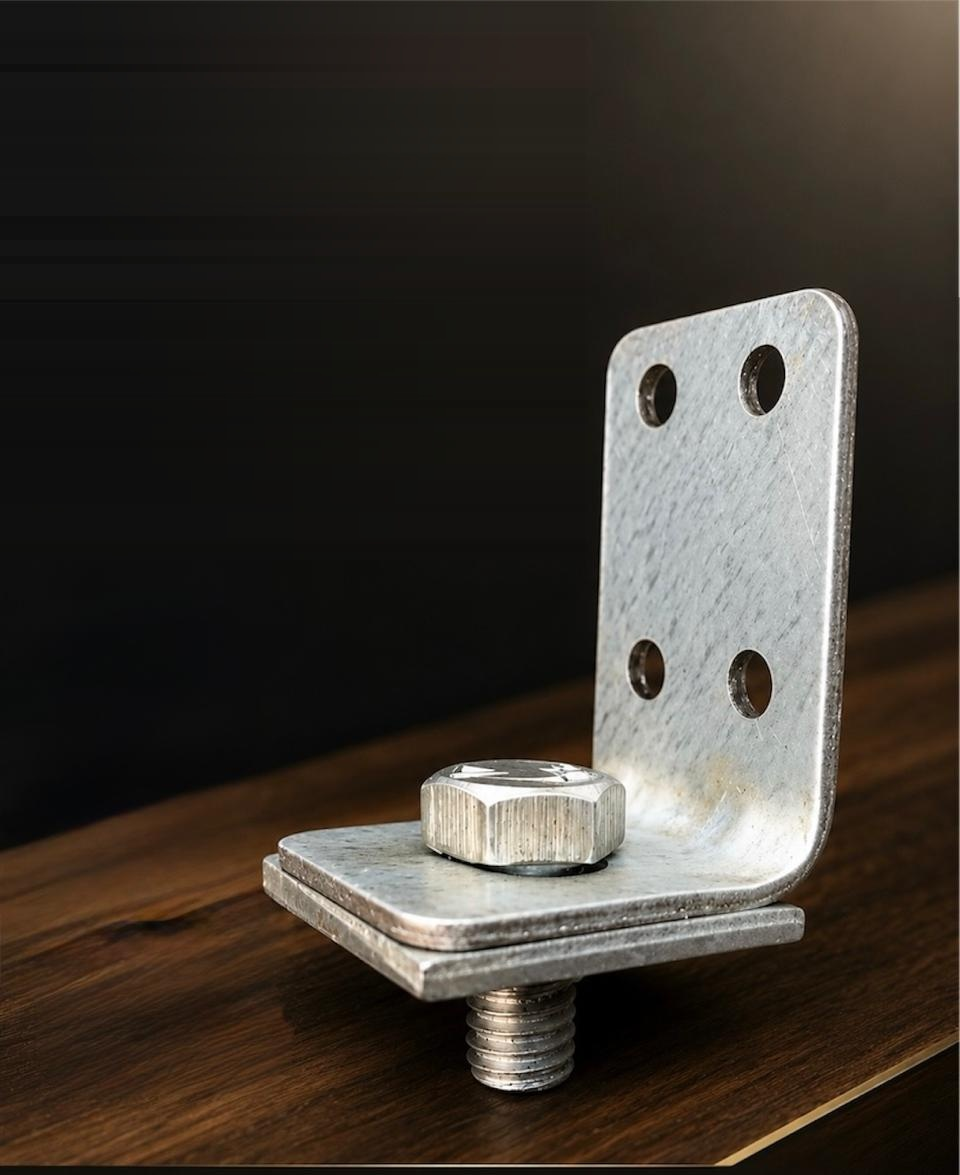
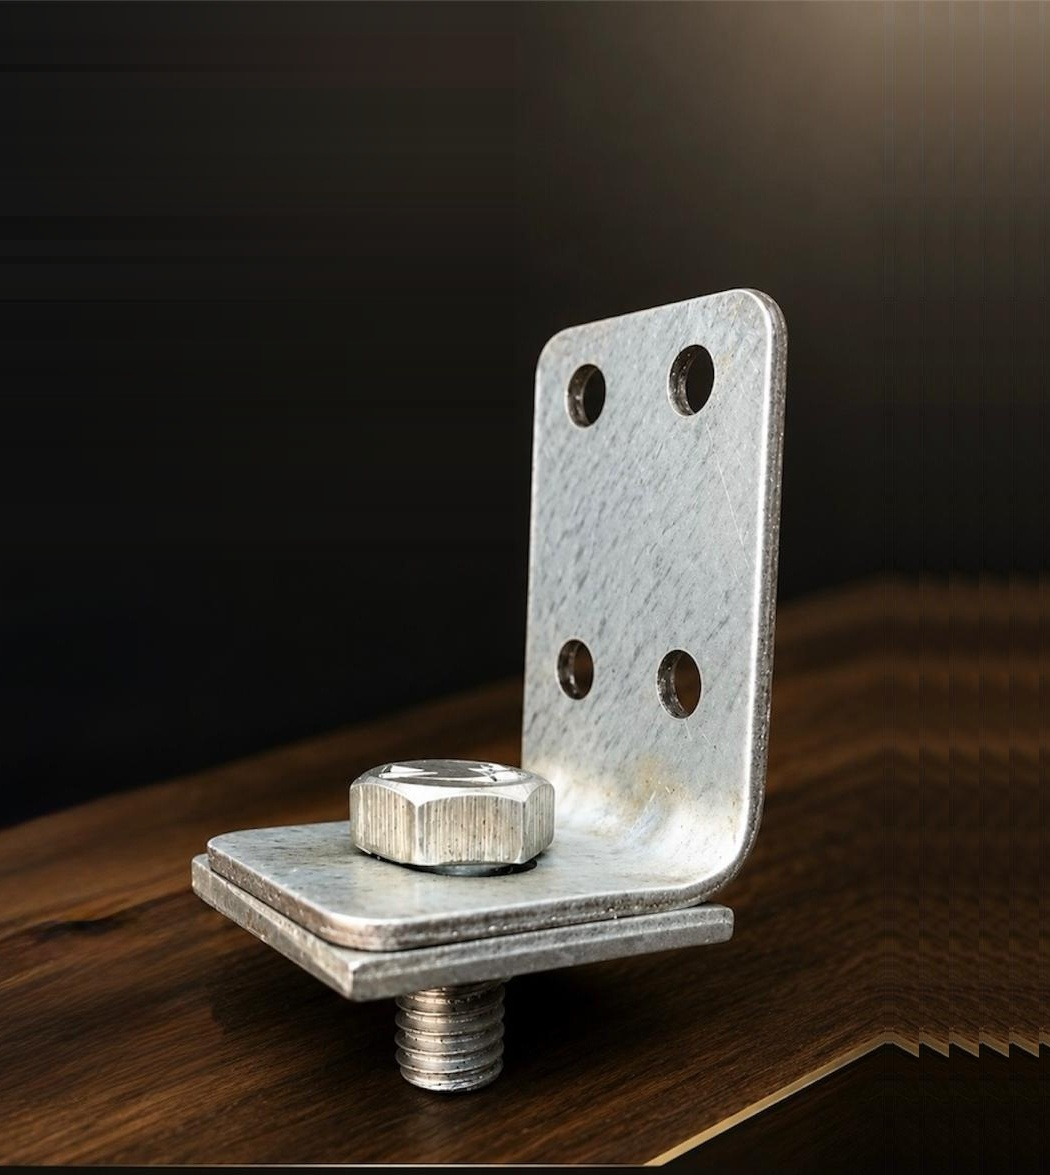
fix: center clamp image and remove obstructing badge overlays on product detail visual

diff --git a/src/index.css b/src/index.css
@@ -1517,23 +1517,25 @@ em {
 .detail-product-visual {
     position: relative;
     width: 100%;
-    aspect-ratio: 4 / 3;
-    max-height: 520px;
+    max-width: 580px;
+    aspect-ratio: 1 / 1;
+    max-height: 540px;
+    margin: 0 auto;
     background: radial-gradient(circle at 50% 45%, #181b22, #0d0f14 85%);
-    border: 1px solid rgba(232, 213, 154, 0.16);
+    border: 1px solid rgba(232, 213, 154, 0.18);
     border-radius: 12px;
     overflow: hidden;
     display: flex;
     align-items: center;
     justify-content: center;
-    box-shadow: 0 20px 50px rgba(0, 0, 0, 0.45);
+    box-shadow: 0 20px 50px rgba(0, 0, 0, 0.55);
     cursor: zoom-in;
     transition: border-color 0.3s ease, box-shadow 0.3s ease;
 }
 
 .detail-product-visual:hover {
-    border-color: rgba(201, 164, 76, 0.4);
-    box-shadow: 0 24px 60px rgba(0, 0, 0, 0.6), 0 0 30px rgba(201, 164, 76, 0.12);
+    border-color: rgba(201, 164, 76, 0.45);
+    box-shadow: 0 24px 60px rgba(0, 0, 0, 0.7), 0 0 30px rgba(201, 164, 76, 0.15);
 }
 
 .detail-ambient {
@@ -1541,8 +1543,8 @@ em {
     inset: -20px;
     background-size: cover;
     background-position: center;
-    filter: blur(36px) brightness(0.22) saturate(1.2);
-    opacity: 0.55;
+    filter: blur(40px) brightness(0.25) saturate(1.2);
+    opacity: 0.6;
     pointer-events: none;
     z-index: 1;
 }
@@ -1556,7 +1558,7 @@ em {
     max-height: 100%;
     object-fit: contain;
     object-position: center;
-    padding: 20px;
+    padding: 0;
     box-sizing: border-box;
     transition: transform 0.4s ease;
 }
@@ -3188,18 +3190,18 @@ body {
         position: relative !important;
         inset: auto;
         width: 100%;
-        max-width: 100%;
+        max-width: 440px;
         margin: 0 auto;
         height: auto;
-        min-height: 270px;
-        max-height: 420px;
-        aspect-ratio: 4 / 3;
-        border-radius: 10px;
+        aspect-ratio: 1 / 1;
+        min-height: 280px;
+        max-height: 440px;
+        border-radius: 12px;
         order: 1;
     }
 
     .detail-product-visual .detail-image {
-        padding: 14px;
+        padding: 0;
     }
 
     .mobile-actions {
@@ -3540,8 +3542,8 @@ body {
     }
 
     .detail-product-visual {
-        min-height: 230px;
-        max-height: 320px;
-        aspect-ratio: 4 / 3;
+        min-height: 250px;
+        max-height: 340px;
+        aspect-ratio: 1 / 1;
     }
 }

diff --git a/src/pages/ProductDetail.tsx b/src/pages/ProductDetail.tsx
@@ -67,33 +67,6 @@ export default function ProductDetail({ category }: { category: string }) {
               src={activeImage}
               alt={`${currentProduct.name} - HK Enterprise`}
             />
-            <div className="visual-label">
-              <span>HK PRECISION SERIES</span>
-              <b>{currentProduct.code || currentProduct.category}</b>
-            </div>
-            <div
-              className="detail-zoom-pill"
-              style={{
-                position: "absolute",
-                top: "16px",
-                right: "16px",
-                zIndex: 4,
-                background: "rgba(14, 17, 22, 0.75)",
-                backdropFilter: "blur(8px)",
-                border: "1px solid rgba(232, 213, 154, 0.25)",
-                color: "var(--champagne)",
-                fontSize: "10px",
-                letterSpacing: "0.12em",
-                padding: "6px 12px",
-                borderRadius: "4px",
-                display: "inline-flex",
-                alignItems: "center",
-                gap: "6px",
-                pointerEvents: "none",
-              }}
-            >
-              <span>FULL VIEW</span>
-            </div>
           </div>
 
           <div className="actions mobile-actions">
